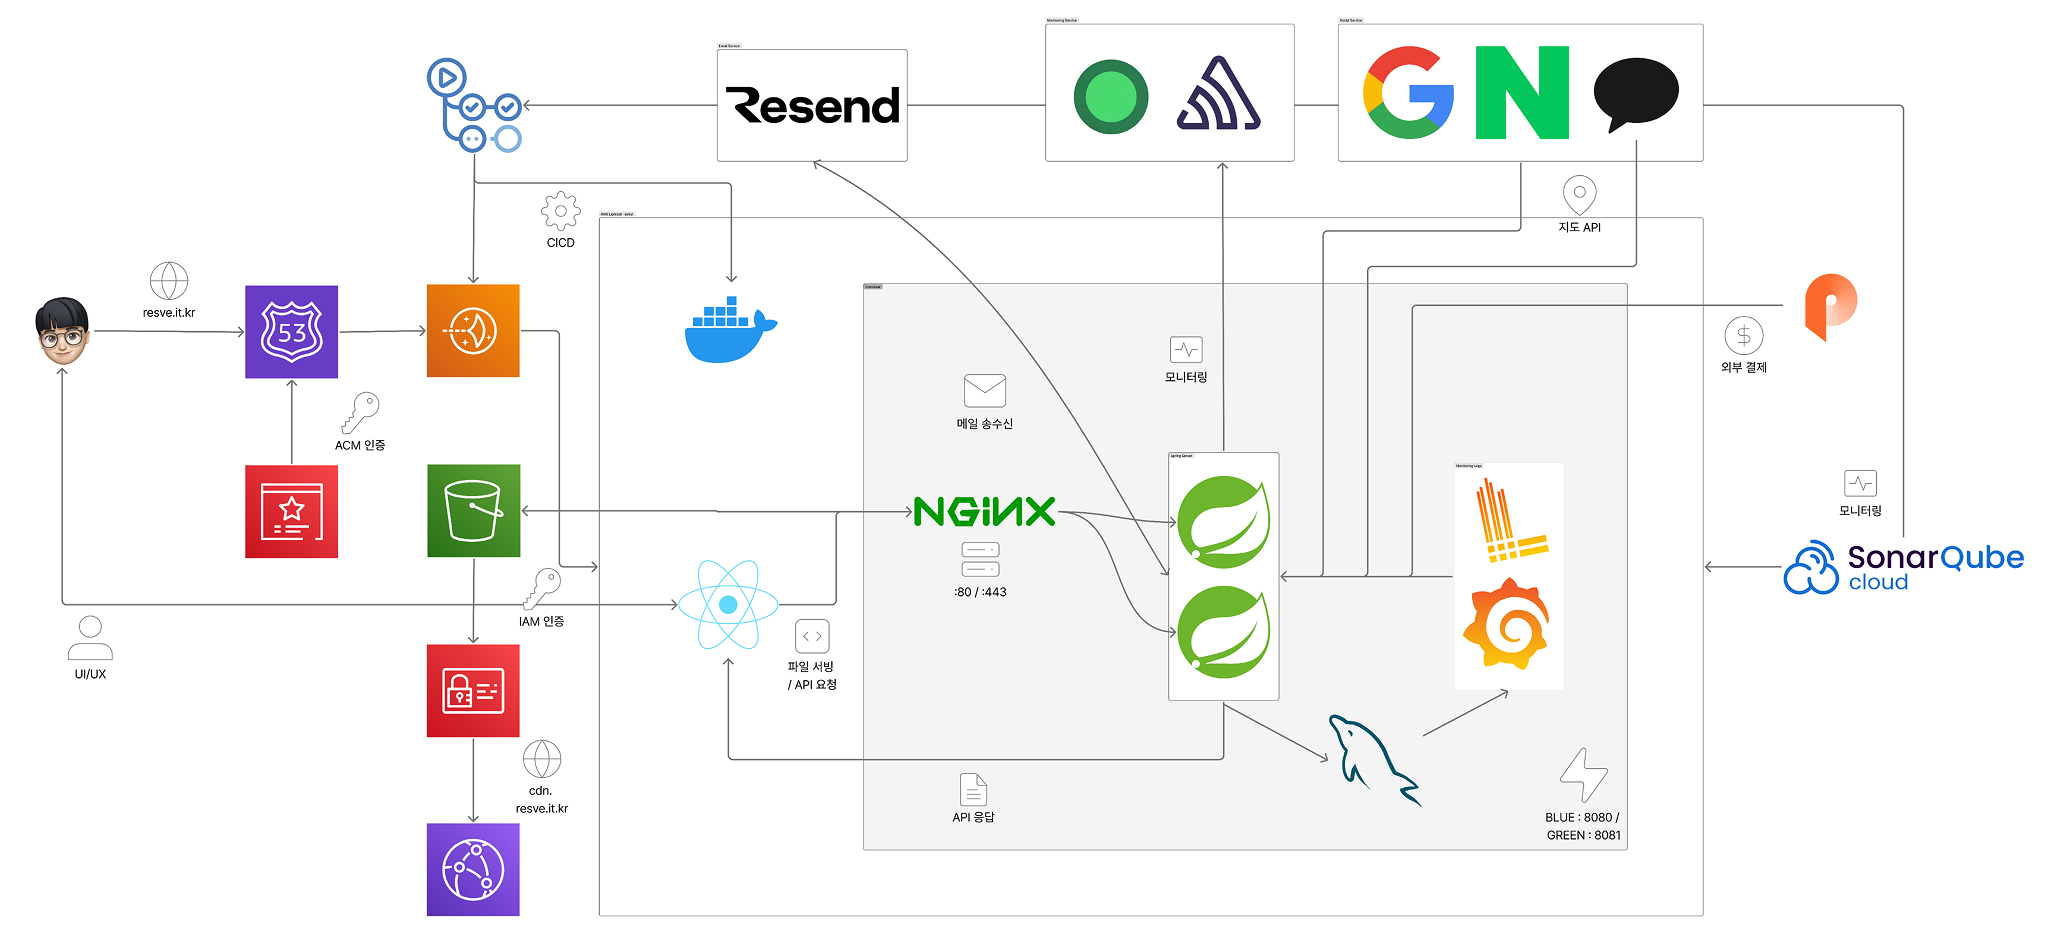
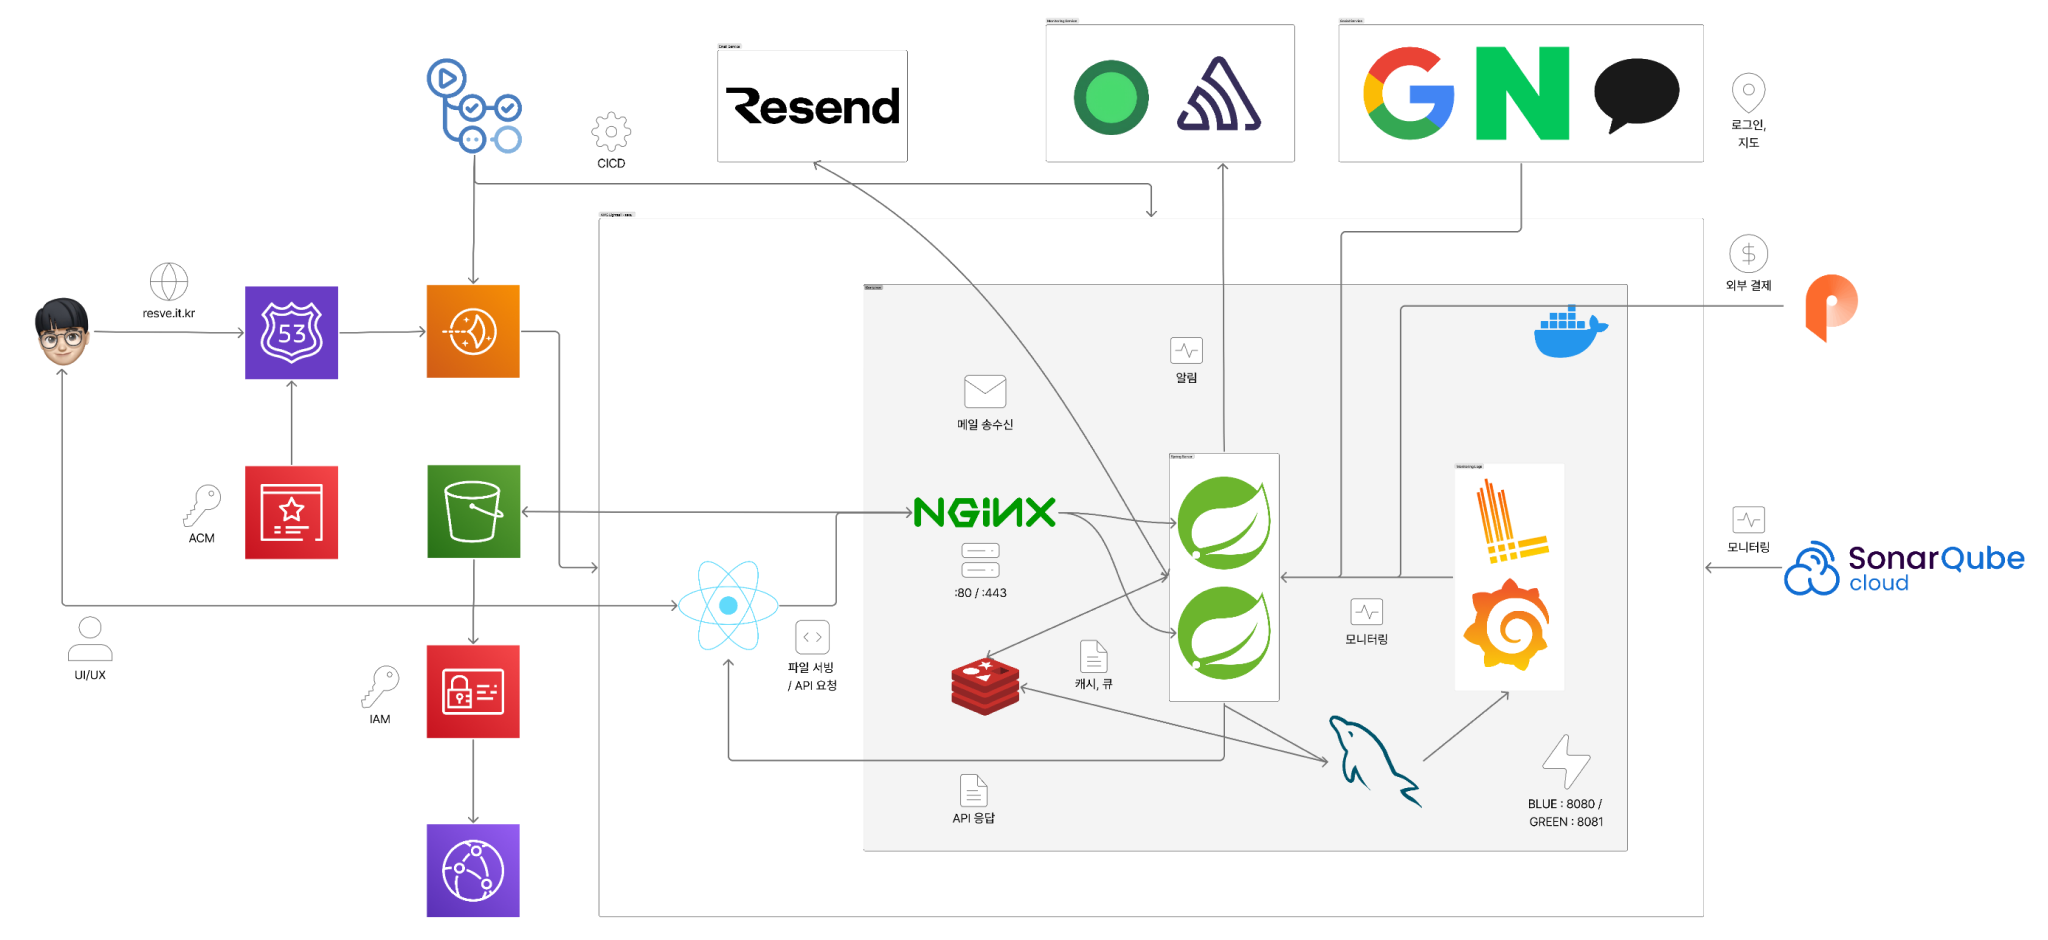
chore: refresh reserve branding and social images

diff --git a/frontend/index.html b/frontend/index.html
@@ -24,8 +24,8 @@
     <meta property="og:site_name" content="RESERVE" />
     <meta property="og:title" content="RESERVE | 예약이 필요한 순간" />
     <meta property="og:description" content="예약이 필요한 순간, 원하는 가게를 찾고 가장 빠르게 예약하세요." />
-    <meta property="og:image" content="https://reserve.it.kr/og-image.png?v=20260928" />
-    <meta property="og:image:secure_url" content="https://reserve.it.kr/og-image.png?v=20260928" />
+    <meta property="og:image" content="https://reserve.it.kr/og-image.png?v=20261021" />
+    <meta property="og:image:secure_url" content="https://reserve.it.kr/og-image.png?v=20261021" />
     <meta property="og:image:type" content="image/png" />
     <meta property="og:image:width" content="1200" />
     <meta property="og:image:height" content="630" />
@@ -37,7 +37,7 @@
     <meta name="twitter:card" content="summary_large_image" />
     <meta name="twitter:title" content="RESERVE | 예약이 필요한 순간" />
     <meta name="twitter:description" content="예약이 필요한 순간, 원하는 가게를 찾고 가장 빠르게 예약하세요." />
-    <meta name="twitter:image" content="https://reserve.it.kr/og-image.png?v=20260928" />
+    <meta name="twitter:image" content="https://reserve.it.kr/og-image.png?v=20261021" />
 
     <!-- ─── 아이콘 ────────────────────────────────────────── -->
     <!-- SVG는 지원 브라우저에서 우선 사용, PNG는 미지원 브라우저(iOS Safari 등) 폴백 -->

diff --git a/backend/src/test/java/kr/it/reserve/store/service/StorePageServiceTest.java b/backend/src/test/java/kr/it/reserve/store/service/StorePageServiceTest.java
@@ -47,7 +47,7 @@ class StorePageServiceTest {
                 "https://cdn.reserve.it.kr.evil.example/users/1/stores/81/thumbnails/photo.png",
                 "javascript:alert(1)"}) {
             String html = pages().render(StoreResponse.builder().id(81L).name("가게").mainImageUrl(image).build());
-            assertThat(html).contains("content=\"https://reserve.it.kr/og-image.png?v=20260928\"")
+            assertThat(html).contains("content=\"https://reserve.it.kr/og-image.png?v=20261021\"")
                     .doesNotContain(image);
         }
     }

diff --git a/README.md b/README.md
@@ -2,11 +2,6 @@
 
 <a href="https://reserve.it.kr"><img src="frontend/public/og-image.png" alt="RESERVE — 예약이 필요한 순간" width="760" /></a>
 
-<picture>
-  <source media="(prefers-color-scheme: dark)" srcset="docs/images/title-dark.svg" />
-  <img src="docs/images/title-light.svg" alt="예약이 필요한 순간, RESERVE" width="760" />
-</picture>
-
 [**서비스 바로가기**](https://reserve.it.kr)
 
 <br />
@@ -87,7 +82,7 @@ RESERVE는 맛집·카페, 뷰티, 운동, 클래스, 팝업까지 업종을 가
 ## 아키텍처
 
 <p align="center">
-  <img src="docs/images/RESERVE_Architecture.png" alt="RESERVE 아키텍처" width="100%" />
+  <img src="docs/images/RESERVE_Architecture.png" alt="Redis를 포함한 RESERVE 아키텍처" width="100%" />
 </p>
 
 ## 문서
